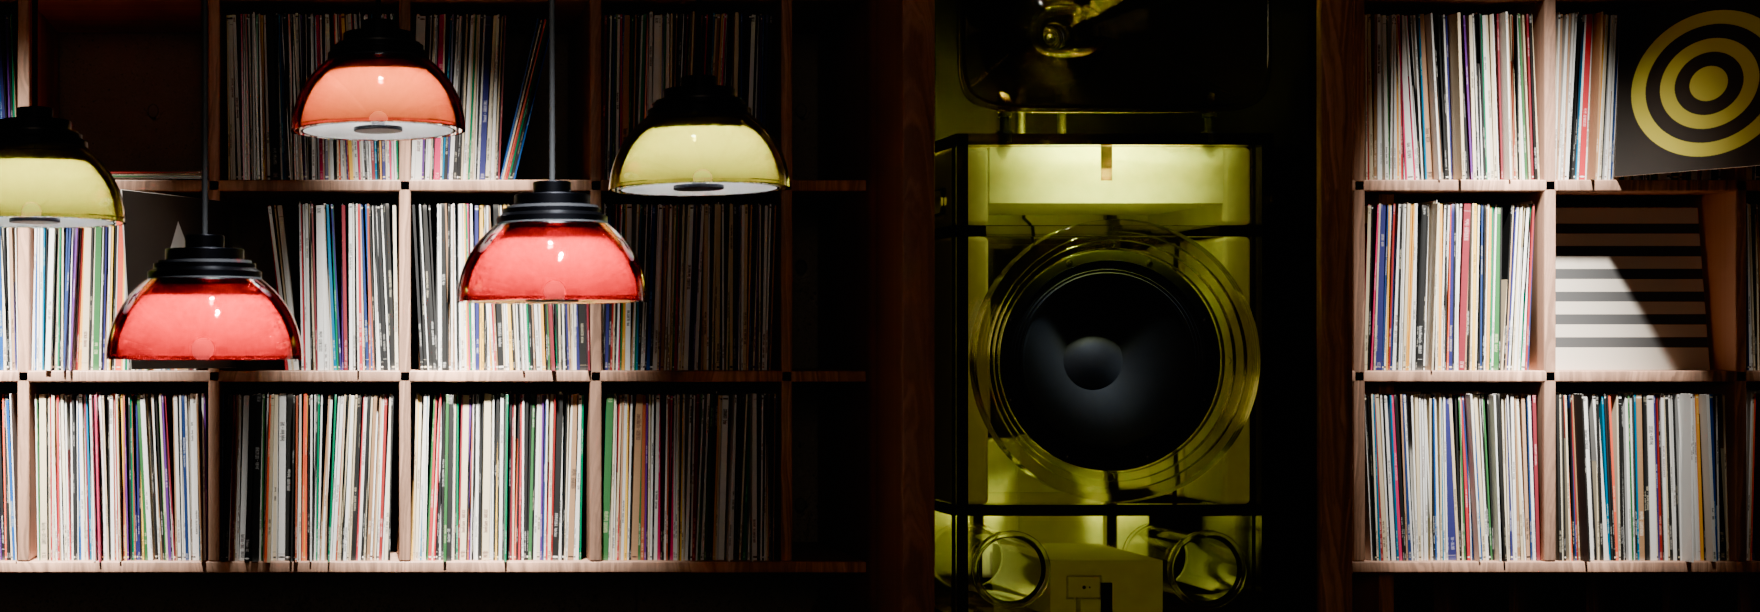
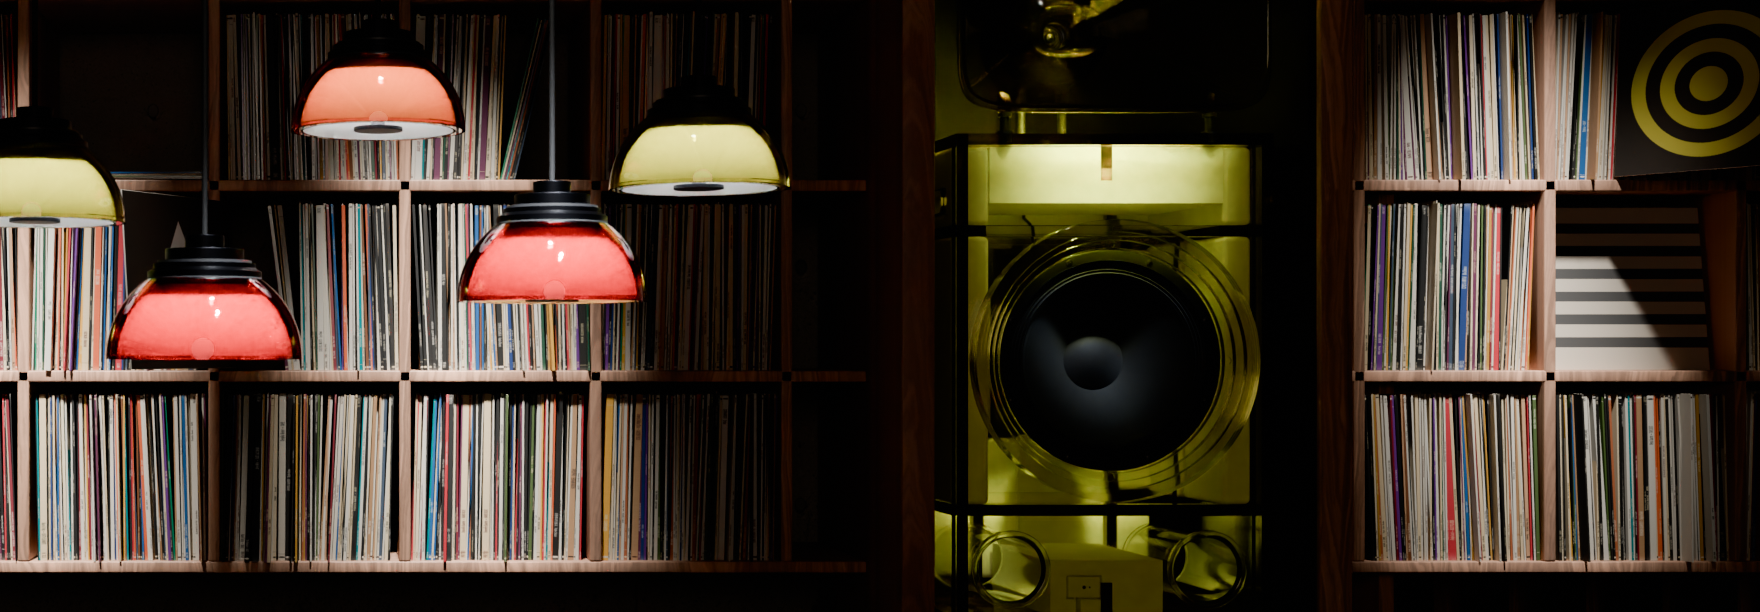
Planet bar: the wall test crop, round 2 (whites aged, colours muted, the wall heads down): centre 60.8, right shelves 64.2, bay 34.2
Claude-Session: https://claude.ai/code/session_01CsZ9sPVytkpnrfV4BgTgfB

diff --git a/renders/2026-11-11/barkhorn/product/planet-bar/walltest/README.md b/renders/2026-11-11/barkhorn/product/planet-bar/walltest/README.md
@@ -12,3 +12,14 @@ The wall (`campaign/bar_life/record_wall.py`, spines `bar_life/tex/spines.jpg` f
 - Audit: ([], []) (hidden px, equipment px).
 
 After this crop the pale inner-sleeve tops are drawn in every cell (they were only below 1.6 m; the hero's eye is at 2.2).
+
+## Round 2 (the coordinator, 21:22): the whites aged, the colours muted, the wall heads down
+
+- The spines: no spine above albedo 0.70 (the atlas's brightest luminance 0.67, linear), the whites warm; half of the
+  printed colours muted or dark (navy, maroon, forest, mustard, brown, slate), fewer bright primaries.
+- The hero's wall heads only: track-wall1 and 2 (the centre) at 0.48 of before, track-wall3 and 4 (the right) at
+  0.38 (two half-size proofs: 0.6 / 0.45 gave 67.1 / 72.1; 0.48 / 0.38 gave 63.7 / 67.2). The bay heads, the horn
+  heads and the speakers unchanged.
+- Mean luminance (Rec. 709, 0-255) in this crop: **centre wall (x 0-860) 60.8; right lit shelves (x 1360-1760) 64.2;
+  the speaker bay (x 940-1320) 34.2**. Round 1: 75.2, 96.0, 34.3. The approved hero before the new wall: 61.3, 62.4, 34.2.
+- The same wall otherwise (seed 1313): 77 a full cell, the same shares and cells. Audit hidden 0, equipment 0.
